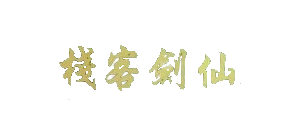
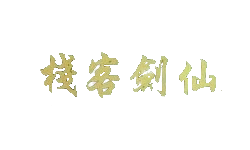
adjust images

Changed region(s): [[0.14, 0.3284, 0.868, 0.6866]]

diff --git a/pal/index.html b/pal/index.html
@@ -12,7 +12,7 @@
       <table class="pos">
         <tr>
           <td>
-            <a href="./index.html"><img src="./image/pal_5.png"/></a>
+            <a href="./index.html"><img src="./image/logo.png"/></a>
             <nav class="topnav">
               <ul>
                 <li><a href="http://cmsimg.baiyou100.com/pal/index.html" target=_blank>官方网站</a></li>
@@ -29,20 +29,19 @@
     <container class="container">
       <div class="background_home">
         <h1>欢迎来到仙剑之家</h1>
-        <h3>(╯‵□′）╯︵┴─┴</h3>
-        <h1>在这里你可以很便捷的查到关于仙剑的各种信息以及整各种资源的链接</h1>
-        <h3>点击下面的图片可以查询相应版本的信息</h3>
-        <div class="button"><h1><a href="./introduction/introduction.html">Start</a></h1></div>
+        <h3>ㄟ(≧◇≦)ㄏ</h3>
+        <h1>在这里你可以很便捷的查到关于仙剑的各种信息以及各种资源的链接</h1>
+        <div class="button"><a href="./introduction/introduction.html"><img src="./image/pal_old.png"/></a></div>
       </div>
 
       <div class="clips" align = "center">
         <table class="image_logo" >
           <tr>
-            <td><a href="./introduction/pal_1.html"><img src="./image/pal_new.gif"></a></td>
+            <td><a href="./introduction/pal_1.html"><img src="./image/pal_new.png"></a></td>
             <td><a href="./introduction/pal_2.html"><img src="./image/pal_2.png"/></a></td>
             <td><a href="./introduction/pal_3.html"><img src="./image/pal_3.png"/></a></td>
             <td><a href="./introduction/pal_3_plus.html"><img src="./image/pal_3_plus.png"/></a></td>
-            <td><a href="./introduction/pal_4.html"><img src="./image/pal_4.gif"/></a></td>
+            <td><a href="./introduction/pal_4.html"><img src="./image/pal_4.png"/></a></td>
             <td><a href="./introduction/pal_5.html"><img src="./image/pal_5.png"/></a></td>
             <td><a href="./introduction/pal_5_plus.html"><img src="./image/pal_5_plus.png"/></a></td>
             <td><a href="./introduction/pal_ol.html"><img src="./image/pal_ol.png"/></a></td>

diff --git a/pal/introduction/pal_3.html b/pal/introduction/pal_3.html
@@ -11,7 +11,7 @@
       <table class="pos">
         <tr>
           <td>
-            <a href="../index.html"><img src="../image/pal_5.png"/></a>
+            <a href="../index.html"><img src="../image/pal_3.png"/></a>
             <nav class="topnav">
               <ul>
                 <li><a href="http://cmsimg.baiyou100.com/pal/index.html" target=_blank>官方网站</a></li>
@@ -43,7 +43,7 @@
       <div class="introduction-frame">
         <div class="introduction">
           <h1>仙剑奇侠传三</h1>
-          <p>《仙剑奇侠传三》是国产单机角色扮演游戏《仙剑奇侠传》系列的第三代作品，由大宇资讯股份有限公司旗下的软星科技（上海）有限公司研发，于2003年暑期发行。从本代作品开始，《仙剑》系列开始建立“六界”世界观；3D画面在系列中首度出现；战斗模式等方面也得到大幅度的改变。凭着绚丽活泼的浓情风格，本作又为仙剑系列赢取了一大批的新晋玩家，被评为2003年最出色的RPG之一，后于2008年被改编成同名电视剧。</p>
+          <p>&nbsp&nbsp&nbsp&nbsp《仙剑奇侠传三》是国产单机角色扮演游戏《仙剑奇侠传》系列的第三代作品，由大宇资讯股份有限公司旗下的软星科技（上海）有限公司研发，于2003年暑期发行。从本代作品开始，《仙剑》系列开始建立“六界”世界观；3D画面在系列中首度出现；战斗模式等方面也得到大幅度的改变。凭着绚丽活泼的浓情风格，本作又为仙剑系列赢取了一大批的新晋玩家，被评为2003年最出色的RPG之一，后于2008年被改编成同名电视剧。</p>
           <h2>剧情简介</h2>
           <p>&nbsp&nbsp&nbsp&nbsp《仙剑奇侠传三》故事发生在《仙剑》第一代的五十年前，那时候，李三思刚刚发出赤子的第一声啼哭；巫后还是襁褓中的婴儿，而剑圣，则还没有拜入蜀山修仙</p>
           <p>&nbsp&nbsp&nbsp&nbsp事情的起因是从锁妖塔顶端突然坍塌，封印被解除开始的，但是，更深层的因果却要追溯到千年前的神界。</p>

diff --git a/pal/link.css b/pal/link.css
@@ -3,6 +3,11 @@
 	margin: 0;
 	padding: 0;
 }
+body,html
+{
+	font-family: Arial, 微软雅黑, verdana, Helvetica, sans-serif;
+	color: #000000;
+}
 /*---------------construct----------------*/
 .topbar
 {
@@ -149,6 +154,11 @@ table.pos
 	color: #5ccccc;
 	font-weight: normal;
 }
+.introduction a
+{
+	text-decoration: none;
+	color: black;
+}
 .introduction img
 {
 	max-width: 1000px;
@@ -178,23 +188,15 @@ table.pos
 	text-align: center;
 	font-weight: normal;
 }
-.background_home a
+.button
 {
 	display: block;
 	text-align: center;
-	text-decoration: none;
-	color: white;
 }
-.button
+.button a img
 {
-	width: 120px;
-	margin: 20px auto;
-	text-align: center;
-	text-decoration:none;
-
-    font-size: 20px;
-    color: #ffffff;
-	font-family:微软雅黑, 幼圆;
+	margin: 0 auto;
+	width: 250px;
 }
 /*------------------index-background-----------*/
 
@@ -213,6 +215,7 @@ table.image_logo
 	width: 1255px;
 	left: 20%;
 	background-color: #fefefe;
+	border: 0;
 }
 table.image_logo tr td
 {

diff --git a/pal/introduction/pal_3_plus.html b/pal/introduction/pal_3_plus.html
@@ -11,7 +11,7 @@
       <table class="pos">
         <tr>
           <td>
-            <a href="../index.html"><img src="../image/pal_5.png"/></a>
+            <a href="../index.html"><img src="../image/pal_3_plus.png"/></a>
             <nav class="topnav">
               <ul>
                 <li><a href="http://cmsimg.baiyou100.com/pal/index.html" target=_blank>官方网站</a></li>

diff --git a/pal/introduction/pal_5_plus.html b/pal/introduction/pal_5_plus.html
@@ -11,7 +11,7 @@
       <table class="pos">
         <tr>
           <td>
-            <a href="../index.html"><img src="../image/pal_5.png"/></a>
+            <a href="../index.html"><img src="../image/pal_5_plus.png"/></a>
             <nav class="topnav">
               <ul>
                 <li><a href="http://cmsimg.baiyou100.com/pal/index.html" target=_blank>官方网站</a></li>

diff --git a/pal/introduction/pal_ol_2.html b/pal/introduction/pal_ol_2.html
@@ -11,7 +11,7 @@
       <table class="pos">
         <tr>
           <td>
-            <a href="../index.html"><img src="../image/pal_5.png"/></a>
+            <a href="../index.html"><img src="../image/pal_ol_2.png"/></a>
             <nav class="topnav">
               <ul>
                 <li><a href="http://cmsimg.baiyou100.com/pal/index.html" target=_blank>官方网站</a></li>

diff --git a/pal/introduction/introduction.html b/pal/introduction/introduction.html
@@ -11,7 +11,7 @@
       <table class="pos">
         <tr>
           <td>
-            <a href="../index.html"><img src="../image/pal_5.png"/></a>
+            <a href="../index.html"><img src="../image/pal_old.png"/></a>
             <nav class="topnav">
               <ul>
                 <li><a href="http://cmsimg.baiyou100.com/pal/index.html" target=_blank>官方网站</a></li>

diff --git a/pal/introduction/pal_1.html b/pal/introduction/pal_1.html
@@ -11,7 +11,7 @@
       <table class="pos">
         <tr>
           <td>
-            <a href="../index.html"><img src="../image/pal_5.png"/></a>
+            <a href="../index.html"><img src="../image/pal_new.png"/></a>
             <nav class="topnav">
               <ul>
                 <li><a href="http://cmsimg.baiyou100.com/pal/index.html" target=_blank>官方网站</a></li>

diff --git a/pal/introduction/pal_inn.html b/pal/introduction/pal_inn.html
@@ -11,7 +11,7 @@
       <table class="pos">
         <tr>
           <td>
-            <a href="../index.html"><img src="../image/pal_5.png"/></a>
+            <a href="../index.html"><img src="../image/pal_inn.png"/></a>
             <nav class="topnav">
               <ul>
                 <li><a href="http://cmsimg.baiyou100.com/pal/index.html" target=_blank>官方网站</a></li>

diff --git a/pal/introduction/pal_ol.html b/pal/introduction/pal_ol.html
@@ -11,7 +11,7 @@
       <table class="pos">
         <tr>
           <td>
-            <a href="../index.html"><img src="../image/pal_5.png"/></a>
+            <a href="../index.html"><img src="../image/pal_ol.png"/></a>
             <nav class="topnav">
               <ul>
                 <li><a href="http://cmsimg.baiyou100.com/pal/index.html" target=_blank>官方网站</a></li>

diff --git a/pal/introduction/pal_2.html b/pal/introduction/pal_2.html
@@ -11,7 +11,7 @@
       <table class="pos">
         <tr>
           <td>
-            <a href="../index.html"><img src="../image/pal_5.png"/></a>
+            <a href="../index.html"><img src="../image/pal_2.png"/></a>
             <nav class="topnav">
               <ul>
                 <li><a href="http://cmsimg.baiyou100.com/pal/index.html" target=_blank>官方网站</a></li>

diff --git a/pal/introduction/pal_4.html b/pal/introduction/pal_4.html
@@ -11,7 +11,7 @@
       <table class="pos">
         <tr>
           <td>
-            <a href="../index.html"><img src="../image/pal_5.png"/></a>
+            <a href="../index.html"><img src="../image/pal_4.png"/></a>
             <nav class="topnav">
               <ul>
                 <li><a href="http://cmsimg.baiyou100.com/pal/index.html" target=_blank>官方网站</a></li>
